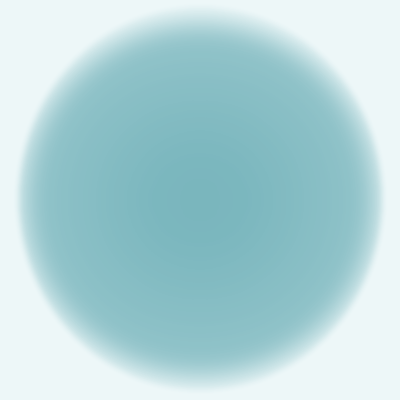
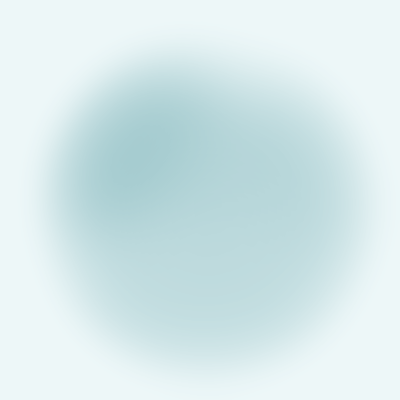
feat: document M1 material representation blocker

diff --git a/verification/continuous-water-prototype/index.html b/verification/continuous-water-prototype/index.html
@@ -2,6 +2,6 @@
 <html lang="zh-CN"><head><meta charset="utf-8"><meta name="viewport" content="width=device-width,initial-scale=1"><title>MindIsle · M1 Neutral Water Material</title>
 <style>:root{font-family:-apple-system,BlinkMacSystemFont,"PingFang SC","Helvetica Neue",sans-serif;color:#315c65;background:#f4fafb}*{box-sizing:border-box}body{margin:0;padding:24px}.shell{max-width:1180px;margin:auto}.head h1{margin:0;font-size:21px;font-weight:500;letter-spacing:.07em}.head p{margin:8px 0 22px;color:#78969d;font-size:12px}.layout{display:grid;grid-template-columns:minmax(420px,1fr) 310px;gap:18px}.panel{background:rgba(255,255,255,.8);border:1px solid #dcecef;border-radius:18px;padding:16px;box-shadow:0 12px 36px rgba(54,104,112,.06)}.stage{min-height:520px;border-radius:14px;background:radial-gradient(circle at 50% 45%,#fbffff,#eaf4f5 70%);display:grid;place-items:center;overflow:hidden;position:relative}.stage img{width:min(100%,520px);height:auto;display:block}.badge{position:absolute;left:14px;top:14px;padding:6px 9px;border:1px solid #cfe3e6;border-radius:999px;background:#f9fdfd;color:#6c9096;font-size:11px;letter-spacing:.08em}.controls h2,.compare h2{margin:0;font-size:13px;font-weight:500;letter-spacing:.1em}.controls label{display:block;margin:13px 0;color:#5d8289;font-size:12px}.controls input{margin-right:7px;accent-color:#5b9da3}.readout{display:grid;gap:8px;margin-top:22px;padding-top:16px;border-top:1px solid #e2eef0}.row{display:flex;justify-content:space-between;gap:12px;font-size:12px}.row span:first-child{color:#86a1a7}.row span:last-child{color:#476f77;text-align:right}.note{margin:18px 0 0;color:#78969d;font-size:12px;line-height:1.65}.compare{margin-top:0;margin-bottom:18px}.compare-grid{display:grid;grid-template-columns:repeat(4,1fr);gap:10px;margin-top:12px}.compare figure{margin:0}.compare img{display:block;width:100%;aspect-ratio:1;object-fit:cover;border-radius:12px;background:#edf5f6;border:1px solid #e0edef}.compare figcaption{margin-top:7px;color:#648991;font-size:11px;line-height:1.4}.status{margin-top:16px;padding:12px;border-radius:12px;background:#f0f8f7;color:#4b7778;font-size:12px;line-height:1.6}.status strong{font-weight:500;color:#2f7c71}@media(max-width:820px){body{padding:16px}.layout{grid-template-columns:1fr}.stage{min-height:430px}.compare-grid{grid-template-columns:repeat(2,1fr)}}</style></head>
 <body><main class="shell"><header class="head"><h1>MindIsle · M1 Neutral Water Material</h1><p>静态材质研究页：无 core、无 formation、无 cavity、无 directional pose、无 timing / moving / production 逻辑。</p></header>
-<section class="panel compare"><h2>REFERENCE REVIEW · 同一视口 / 同一背景</h2><p class="note">所有 Final Art、K2、D K0 与 context image 都是视觉 reference，不是 shader source、carrier raw input 或 M1 通过结论。<a href="references/provenance.json">provenance.json</a> 记录原路径、hash、身份和使用边界。</p><h3>Material Authority</h3><div class="compare-grid"><figure><img src="references/final-art-025.png" alt="Final Art 0.25"><figcaption>FINAL_ART_025 · PRIMARY MATERIAL RICHNESS REFERENCE</figcaption></figure><figure><img src="references/final-art-050.png" alt="Final Art 0.50"><figcaption>FINAL_ART_050 · DEPTH_THICKNESS_CLOUDY_STRUCTURE_REFERENCE</figcaption></figure><figure><img src="references/final-art-075.png" alt="Final Art 0.75"><figcaption>FINAL_ART_075 · MATURE MATERIAL UPPER-BOUND · POSE CONTAMINATION = HIGH</figcaption></figure><figure><img src="references/frozen-k2-final-art.png" alt="Frozen K2 Final Art"><figcaption>FROZEN_K2_FINAL_ART · FINAL OPTICAL ENDPOINT AUTHORITY · ENDPOINT ONLY</figcaption></figure></div><h3>Neutral Restraint</h3><div class="compare-grid"><figure><img src="references/neutral-restraint-d-k0.png" alt="Neutral Restraint D K0"><figcaption>NEUTRAL_RESTRAINT_D_K0 · NEUTRAL_RESTRAINT_REFERENCE · NOT MATERIAL RICHNESS AUTHORITY</figcaption></figure></div><h3>Current Experiment</h3><div class="compare-grid"><figure><img src="m1-neutral-hero.png" alt="New Neutral Material"><figcaption>NEW_NEUTRAL · REPRESENTATION-REPAIRED MATERIAL HERO · READY FOR HUMAN REVIEW</figcaption></figure></div><h3>Context</h3><div class="compare-grid"><figure><img src="references/final-art-five-frame.png" alt="Final Art Five Frame"><figcaption>FINAL_ART_FIVE_FRAME · SEQUENCE CONTEXT REFERENCE · NOT SHADER SOURCE</figcaption></figure><figure><img src="references/final-art-close-strip.png" alt="Final Art Close Strip"><figcaption>FINAL_ART_CLOSE_STRIP · CLOSE SEQUENCE CONTEXT REFERENCE · NOT SHADER SOURCE</figcaption></figure></div></section>
-<div class="layout"><section class="panel"><div class="stage"><span class="badge">NEUTRAL MATERIAL · STATIC</span><img id="materialStage" src="m1-neutral-hero.png" alt="neutral water material hero"></div></section><aside class="panel controls"><h2>MATERIAL STUDY</h2><label><input type="radio" name="study" value="m1-neutral-hero.png" checked>New Neutral · refined M1 material hero</label><label><input type="radio" name="study" value="m1-neutral-source.png">Neutral source · volume + depth</label><label><input type="radio" name="study" value="material-carrier-a.png">Carrier A · neutral volume</label><label><input type="radio" name="study" value="material-carrier-b.png">Carrier B · sparse water detail</label><label><input type="radio" name="study" value="material-carrier-c.png">Carrier C · thickness / optical</label><div class="readout"><div class="row"><span>reference basis</span><span>corrected Final Art package</span></div><div class="row"><span>silhouette</span><span>01 outer film · formal</span></div><div class="row"><span>carriers</span><span>3 derived responsibilities</span></div><div class="row"><span>render passes</span><span>1 static study</span></div><div class="row"><span>framebuffers</span><span>0</span></div><div class="row"><span>core / formation</span><span>disabled</span></div><div class="row"><span>procedural noise</span><span>breakup only · low weight</span></div></div><p class="note">外膜保持 formal silhouette；内部材质由中和后的低频 volume、厚度光学与稀疏 detail carrier 组成。当前 output 已完成 representation repair；未改变 pose、silhouette 或 production path。</p><div class="status"><strong>MATERIAL FAMILY = READY FOR HUMAN REVIEW</strong><br>NEUTRAL POSE = PRESERVED<br>TECHNICAL STRUCTURE = PASS<br>READY_FOR_M2 = NO</div></aside></div></main>
-<script>(()=>{const stage=document.querySelector('#materialStage');document.querySelectorAll('input[name=study]').forEach(el=>el.addEventListener('change',()=>{stage.src=el.value;stage.alt=el.parentElement.textContent.trim()}));window.__M1_NEUTRAL__={inspect:()=>({state:'static',cores:false,formation:false,cavity:false,directionalFlow:false,passes:1,framebuffers:0,carriers:['neutral-volume','thickness-optical','sparse-detail'],currentNeutralMaterial:'REPRESENTATION_REPAIRED_M1_NEUTRAL_MATERIAL',reviewBasis:'CORRECTED_FINAL_ART_REFERENCES',materialFamily:'READY_FOR_HUMAN_REVIEW',neutralPose:'PRESERVED',readyForHumanReview:true,readyForM2:false})}})();</script></body></html>
+<section class="panel compare"><h2>REFERENCE REVIEW · 同一视口 / 同一背景</h2><p class="note">所有 Final Art、K2、D K0 与 context image 都是视觉 reference，不是 shader source、carrier raw input 或 M1 通过结论。<a href="references/provenance.json">provenance.json</a> 记录原路径、hash、身份和使用边界。</p><h3>Material Authority</h3><div class="compare-grid"><figure><img src="references/final-art-025.png" alt="Final Art 0.25"><figcaption>FINAL_ART_025 · PRIMARY MATERIAL RICHNESS REFERENCE</figcaption></figure><figure><img src="references/final-art-050.png" alt="Final Art 0.50"><figcaption>FINAL_ART_050 · DEPTH_THICKNESS_CLOUDY_STRUCTURE_REFERENCE</figcaption></figure><figure><img src="references/final-art-075.png" alt="Final Art 0.75"><figcaption>FINAL_ART_075 · MATURE MATERIAL UPPER-BOUND · POSE CONTAMINATION = HIGH</figcaption></figure><figure><img src="references/frozen-k2-final-art.png" alt="Frozen K2 Final Art"><figcaption>FROZEN_K2_FINAL_ART · FINAL OPTICAL ENDPOINT AUTHORITY · ENDPOINT ONLY</figcaption></figure></div><h3>Neutral Restraint</h3><div class="compare-grid"><figure><img src="references/neutral-restraint-d-k0.png" alt="Neutral Restraint D K0"><figcaption>NEUTRAL_RESTRAINT_D_K0 · NEUTRAL_RESTRAINT_REFERENCE · NOT MATERIAL RICHNESS AUTHORITY</figcaption></figure></div><h3>Current Experiment</h3><div class="compare-grid"><figure><img src="m1-neutral-hero.png" alt="New Neutral Material"><figcaption>NEW_NEUTRAL · FINAL M1 REPAIR ATTEMPT · MATERIAL REPRESENTATION BLOCKER</figcaption></figure></div><h3>Context</h3><div class="compare-grid"><figure><img src="references/final-art-five-frame.png" alt="Final Art Five Frame"><figcaption>FINAL_ART_FIVE_FRAME · SEQUENCE CONTEXT REFERENCE · NOT SHADER SOURCE</figcaption></figure><figure><img src="references/final-art-close-strip.png" alt="Final Art Close Strip"><figcaption>FINAL_ART_CLOSE_STRIP · CLOSE SEQUENCE CONTEXT REFERENCE · NOT SHADER SOURCE</figcaption></figure></div></section>
+<div class="layout"><section class="panel"><div class="stage"><span class="badge">NEUTRAL MATERIAL · STATIC</span><img id="materialStage" src="m1-neutral-hero.png" alt="neutral water material hero"></div></section><aside class="panel controls"><h2>MATERIAL STUDY</h2><label><input type="radio" name="study" value="m1-neutral-hero.png" checked>New Neutral · refined M1 material hero</label><label><input type="radio" name="study" value="m1-neutral-source.png">Neutral source · volume + depth</label><label><input type="radio" name="study" value="material-carrier-a.png">Carrier A · neutral volume</label><label><input type="radio" name="study" value="material-carrier-b.png">Carrier B · sparse water detail</label><label><input type="radio" name="study" value="material-carrier-c.png">Carrier C · thickness / optical</label><div class="readout"><div class="row"><span>reference basis</span><span>corrected Final Art package</span></div><div class="row"><span>silhouette</span><span>01 outer film · formal</span></div><div class="row"><span>carriers</span><span>3 derived responsibilities</span></div><div class="row"><span>render passes</span><span>1 static study</span></div><div class="row"><span>framebuffers</span><span>0</span></div><div class="row"><span>core / formation</span><span>disabled</span></div><div class="row"><span>procedural noise</span><span>breakup only · low weight</span></div></div><p class="note">外膜保持 formal silhouette；内部材质由中和后的低频 volume、厚度光学与稀疏 detail carrier 组成。当前 output 已完成 4 轮 representation repair；仍保留 blocker，未改变 pose、silhouette 或 production path。</p><div class="status"><strong>MATERIAL FAMILY = MATERIAL REPRESENTATION BLOCKER</strong><br>NEUTRAL POSE = PRESERVED<br>TECHNICAL STRUCTURE = PASS<br>READY_FOR_M2 = NO</div></aside></div></main>
+<script>(()=>{const stage=document.querySelector('#materialStage');document.querySelectorAll('input[name=study]').forEach(el=>el.addEventListener('change',()=>{stage.src=el.value;stage.alt=el.parentElement.textContent.trim()}));window.__M1_NEUTRAL__={inspect:()=>({state:'static',cores:false,formation:false,cavity:false,directionalFlow:false,passes:1,framebuffers:0,carriers:['neutral-volume','thickness-optical','sparse-detail'],currentNeutralMaterial:'M1_REPRESENTATION_REPAIR_FINAL_ATTEMPT',reviewBasis:'CORRECTED_FINAL_ART_REFERENCES',materialFamily:'MATERIAL_REPRESENTATION_BLOCKER',neutralPose:'PRESERVED',readyForHumanReview:true,readyForM2:false})}})();</script></body></html>

diff --git a/verification/continuous-water-prototype/REPORT.md b/verification/continuous-water-prototype/REPORT.md
@@ -1,68 +1,102 @@
-# M1 — Neutral Water Material · Representation Repair Loop
+# M1 — Neutral Water Material · Representation Repair + Self-Critic Loop
 
-## 1. 最初 root cause
+## 最终判断
 
-当前 Neutral 的 formal silhouette 与中性 pose 没有问题。材质 family blocker 来自 representation：旧 hero 主要由手工软 blob 和低强度叠加构成，缺少来自正式 source layers 的可读 cloudy mass、厚度场和 authored-like sparse structure。因此它太平、太薄、太柔，内部细节像 stain。
-
-## 2. Representation correction
-
-本轮没有继续做第三轮参数 polish，而是重构了 M1 experimental material source：
-
-- 从 `02_internal_cyan_volume` 提炼低频 cloudy volume，并通过水平/垂直翻转平均去除 baked directional organization；
-- 从 `06_fine_ink_wash` 提炼 authored-like sparse internal structure，保留低对比和不规则尺度，不使用 generic noise；
-- 从 `11_curvature_highlights` 提炼 broad thickness / transmission vocabulary，作为低强度前后层；
-- 重新组合 cloud / deep volume / sparse detail / transmission 四个静态层，固定 formal silhouette；
-- 重新生成 `m1-neutral-hero.png`、`m1-neutral-source.png` 与三类 verification carrier debug 图。
-
-没有采样 `FINAL_ART_025`、`FINAL_ART_050` 或 Frozen K2 作为 shader texture，也没有 full-frame crossfade、core、formation、cavity 或 directional flow。
-
-## 3. 视觉循环结果
-
-- **修复前**：内部是均匀的半透明渐变，细节读成 blob / stain。
-- **第一轮 representation repair**：引入 source-derived cloudy field 和 authored-like sparse structure，内部开始出现真实水体组织，但深层厚度仍偏弱。
-- **第二轮**：只提高 deep translucent volume 权重，增强前后空间感；没有增加高频噪声或改变 pose。
-- **当前**：cloudy mass、内部 sparse structure 和透深已经可读，未再发现明显的 representation-level material-family defect，因此进入人工 Review。
-
-## 4. 最终 material source / carrier 结构
-
-Carrier 职责保持不变，但内部实现已替换：
-
-- **Carrier A — neutral volume**：由 `02_internal_cyan_volume` 中和后的低频 field 提供 cloudy mass；`directSample = false`，`neutralizationRequired = true`。
-- **Carrier B — sparse water detail**：由 `06_fine_ink_wash` 中和后的 authored-like field 提供稀疏内部结构；`directSample = false`，`neutralizationRequired = true`。
-- **Carrier C — thickness / optical**：由 `11_curvature_highlights` 中和后的 broad field 提供 thickness / transmission；`directSample = false`，`neutralizationRequired = true`。
-
-没有新增 carrier，没有改变 carrier 职责，没有修改 production renderer 或 shader production path。
-
-## 5. Neutral Pose
-
-**NEUTRAL POSE = PRESERVED**。当前 Hero 保持 calm / balanced neutral state；没有 cavity、swirl、directional mass organization、core 或 formation。
-
-## 6. Current vs Final Art 对比
-
-- 相比 `FINAL_ART_025`：当前已补上淡青 cloudy volume、内部质量聚散和低对比水感结构；仍保留 Neutral 的克制亮度。
-- 相比 `FINAL_ART_050`：当前已补上更明显的前后透深与内部层次，但不复制其 formation pose、cavity 或 directional flow。
-- 相比 `FROZEN_K2_FINAL_ART`：当前属于同一低饱和银白水体材质方向，但仍是无 core、无 formation 的 neutral endpoint study。
-
-## 7. Hero / Review
-
-- **Hero**：[m1-neutral-hero.png](m1-neutral-hero.png)
-- **Neutral source**：[m1-neutral-source.png](m1-neutral-source.png)
-- **Review page**：[index.html](index.html)
-- **Evidence**：[m1-current-evidence.json](m1-current-evidence.json)
-
-Review 页面默认并排展示 `FINAL_ART_025`、`FINAL_ART_050`、`FINAL_ART_075`、`FROZEN_K2_FINAL_ART`、`NEUTRAL_RESTRAINT_D_K0` 和当前 New Neutral，并提供 Carrier A/B/C debug view。
-
-## 8. Three.js feasibility review
-
-Three.js `MeshPhysicalMaterial` 确实提供 `transmission`、`transmissionMap`、`thickness` 和 `thicknessMap`，可以表达体积边界与光学透射；但这些能力仍需要已有的 thickness / transmission source 才能产生有意义的结果，而且官方文档提示其 transmission 路径依赖环境反射并带来更高 per-pixel 成本。当前 blocker 已通过 source representation repair 解决，Three.js 不会补充缺失的 material information；迁移只会增加 renderer abstraction 和玻璃球风险。因此本轮不做 Three.js spike。
-
-**THREE.JS = NOT NEEDED**。
-
-## 9. Final state
+本轮严格执行了 4 个 representation-level cycles，达到绝对上限。Fresh Critic 仍能指出明显的 material-family defect，因此不能交给人工 Review，也不能写成 READY。
 
 - **MATERIAL SYSTEM STRUCTURE = PASS**
 - **NEUTRAL POSE = PRESERVED**
-- **MATERIAL FAMILY = READY FOR HUMAN REVIEW**
+- **MATERIAL FAMILY = MATERIAL REPRESENTATION BLOCKER**
+- **REPAIR CYCLES USED = 4 / 4**
+- **THREE.JS = NOT JUSTIFIED**
 - **READY_FOR_M2 = NO**
 
-本轮不进入 M2，不修改 production，不 push。
+## 初始 root cause
+
+旧 Neutral 主要由软 blob、低对比渐变和透明叠加组成。它没有把 material information 表达为可读的 outer membrane、front water layer、cloudy internal mass、deeper thickness structure 和 rear transmission，因此看起来像青色磨砂雾球，而不是 Final Art 家族中的一团水。
+
+## Cycle 1
+
+**Route Check**：`C. REPRESENTATION`；当前路径可以尝试，但不能继续用旧 Hero 叠加补丁。改动前的假设是：用 `01_outer_film` 作为独立膜面底座，再叠加中和后的 A/B/C。
+
+**修改**：从 formal outer-film alpha 重建底座，并叠加 source-derived cloudy、sparse、curvature layers。
+
+**Fresh Critic**：
+
+1. 外膜几乎消失；
+2. 内部变成均匀网状纹理；
+3. front/internal/rear depth 没有成立。
+
+**IMPROVEMENT = REGRESSION**。Route Review 结论：outer-film alpha 只能作为膜面补层，不能独立承担 Hero。
+
+## Cycle 2
+
+**Route Check**：`B. CHANGE REPRESENTATION`；改为 verified neutral membrane baseline + 显式 front/internal/rear compositing，并把 Carrier B 限制为稀疏局部结构。
+
+**修改**：恢复中性膜面基线，加入 localized internal mass、rear transmission、soft rim 和 sparse source fragments。
+
+**Fresh Critic**：
+
+1. 膜面恢复；
+2. 内部深层质量仍然太淡；
+3. sparse detail 仍不可读。
+
+**IMPROVEMENT = MARGINAL**。触发 Extension Self-Review。
+
+## Cycle 3 · Extension +1
+
+**为什么上一轮不足**：Cycle 2 仍主要使用 source alpha，丢失了 source RGB/albedo 的空间组织。
+
+**错误假设**：认为 alpha field 足以表达厚度与内部质量。
+
+**本轮根本不同**：把中和后的 source RGB/albedo 作为 material value 和 chroma field，而不是只作透明度。
+
+**Fresh Critic**：内部深浅变化仍弱，front/internal/rear separation 仍不成立，sparse detail 仍像模糊斑点。
+
+**IMPROVEMENT = MARGINAL**。继续同类 RGB 权重调节被判定为重复失败 strategy。
+
+## Cycle 4 · Final Extension +1
+
+**为什么上一轮不足**：source RGB 虽然提供了色彩组织，但 compositor 仍把它当单一透明色层。
+
+**错误假设**：认为提高 source value 对比就会自然产生空间厚度。
+
+**本轮根本不同**：建立独立 front/deep/rear depth maps，使用 multiply darkening 表达深层密度，再以 pale transmission 表达前后层。
+
+**Fresh Critic**：
+
+1. 内部深层质量仍太淡，读不成 `FINAL_ART_050` 的 thickness；
+2. front/rear separation 仍主要依赖边缘；
+3. sparse detail 仍不足以形成同一种水的识别度。
+
+**IMPROVEMENT = MARGINAL**。达到绝对 4 轮上限，停止继续调参。
+
+## Route Review
+
+已尝试：
+
+- full source-derived alpha compositor；
+- fixed membrane + explicit front/internal/rear compositing；
+- source RGB/albedo encoding；
+- independent depth-map compositing。
+
+这些路线都保持了 Neutral Pose，但没有提供足够的内部厚度与 authored sparse structure。当前 M1 source layers 的 pose-neutral information 不足以继续高价值修复，因此结论为：
+
+**MATERIAL REPRESENTATION BLOCKER**。
+
+## 最终 representation / carrier
+
+Carrier 职责仍为：A = neutral volume，B = sparse water detail，C = thickness / optical。四轮中分别测试了 alpha-derived、RGB-derived、depth-map 和 fixed-membrane compositing；没有采样 Final Art/K2 作为 shader texture，没有 full-frame crossfade，没有 core、formation、cavity 或 directional flow。
+
+## Three.js Gate
+
+Three.js `MeshPhysicalMaterial` 支持 `transmission`、`transmissionMap`、`thickness` 和 `thicknessMap`，但当前 blocker 是 pose-neutral source information 不足，不是 renderer capability 不足。没有证据表明 Three.js 能补充缺失的内部 material information；做 spike 只会引入玻璃球和环境反射风险。
+
+**THREE.JS = NOT JUSTIFIED**。
+
+## Evidence
+
+- Hero：[m1-neutral-hero.png](m1-neutral-hero.png)
+- Review：[index.html](index.html)
+- Evidence：[m1-current-evidence.json](m1-current-evidence.json)
+- 本轮只修改 `verification/continuous-water-prototype/`，未修改 production，未进入 M2，未 push。
